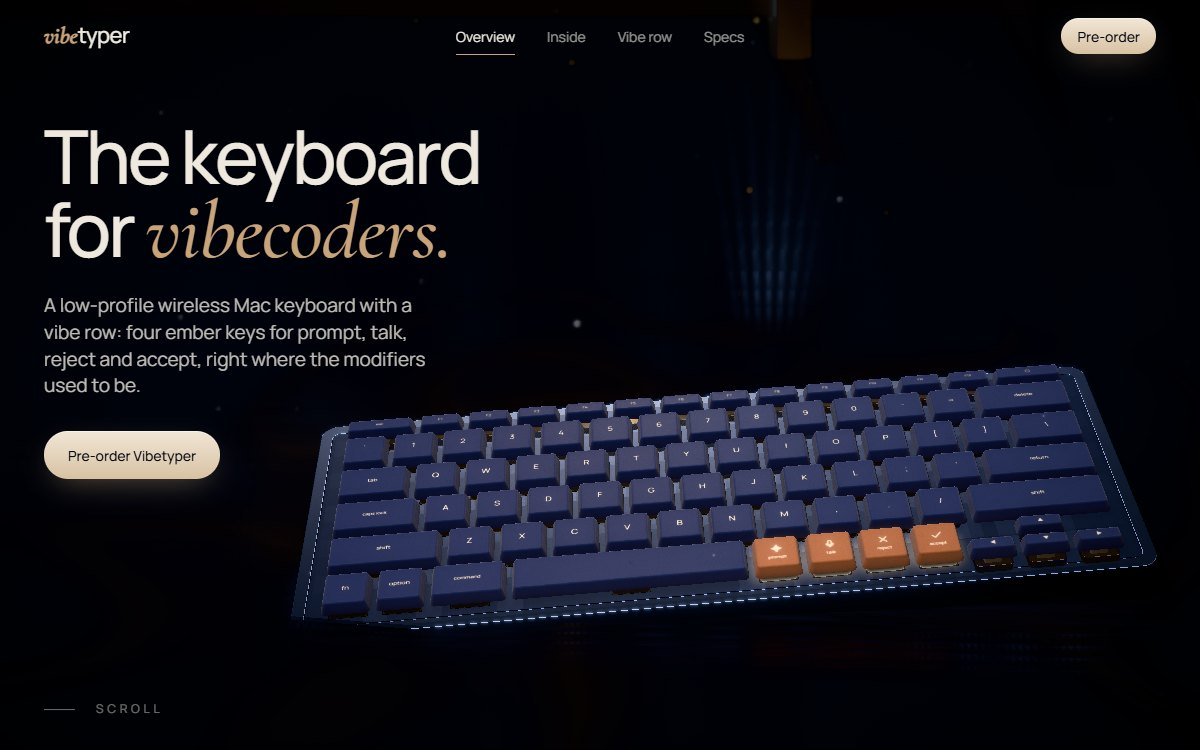
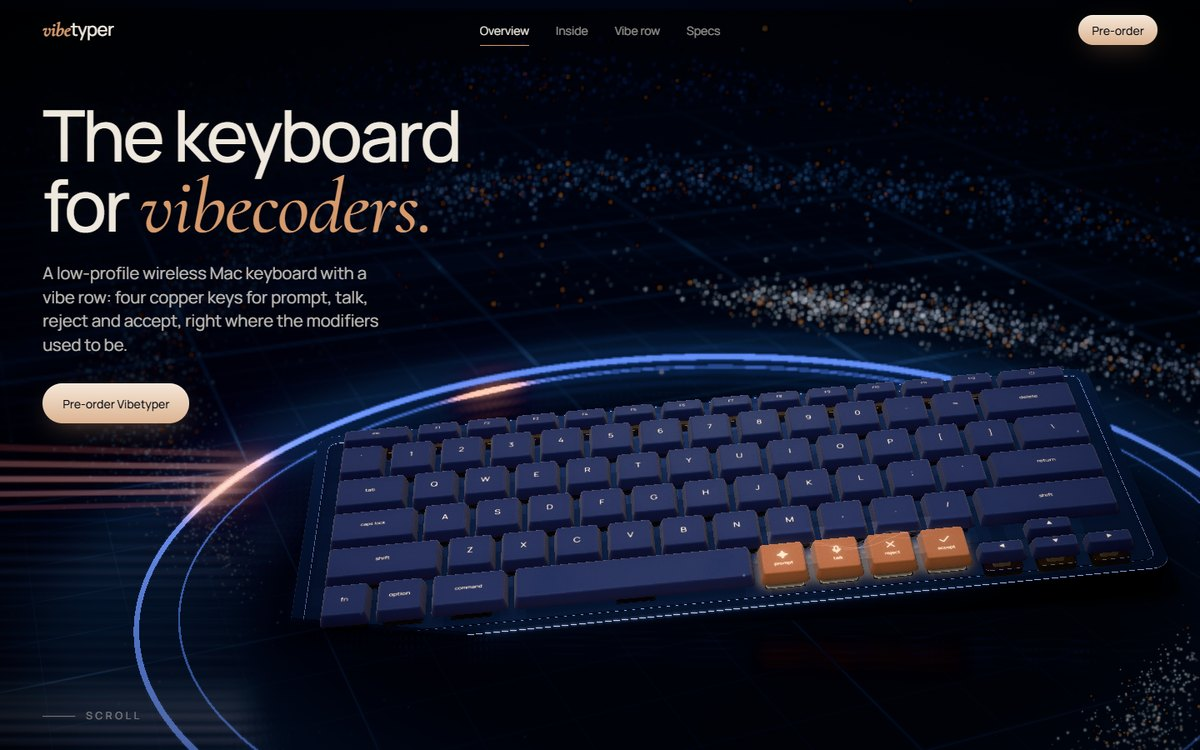
Vibetyper: cobalt + copper redesign screenshot and features

diff --git a/index.html b/index.html
@@ -2487,7 +2487,7 @@
             <li>Opening camera flight through the inside of the keyboard while the keycaps drop into place</li>
             <li>Scroll splits the keyboard into its 7 layers, with labels that follow each part</li>
             <li>The four copper "vibe" keys light up in turn, then the accept key comes apart into cap, switch, spring and light</li>
-            <li>Luxury look: blue anodised keyboard on midnight navy, realistic brushed metal and matte keycaps, drifting haze and dust, reflective floor</li>
+            <li>Luxury tech stage in a complementary cobalt and copper palette: blue anodised keyboard, a light ring with radar pulses on a gridded reflective floor, and a spiral galaxy of stars orbiting the board</li>
             <li>Slow 10-second cinematic loop with camera orbit and push-in; keys rise under the cursor; works on phones</li>
           </ul>
 
